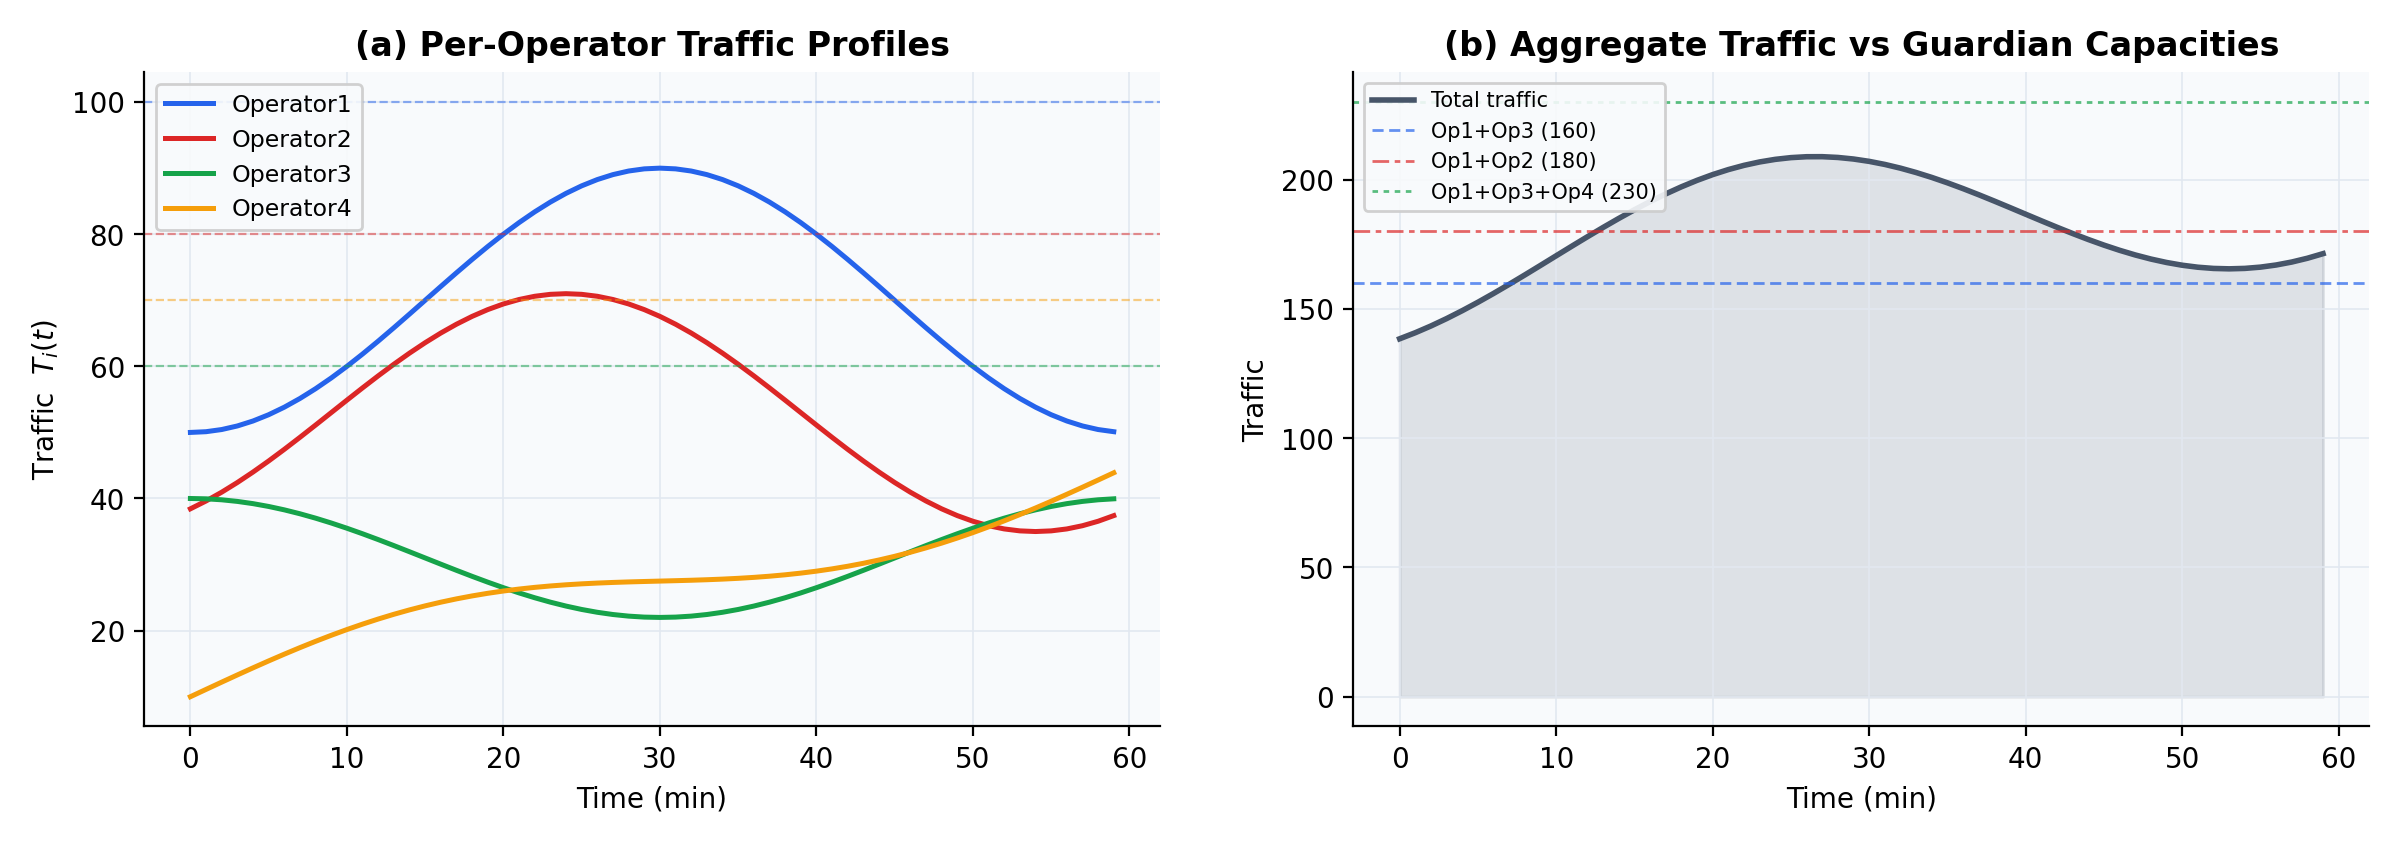
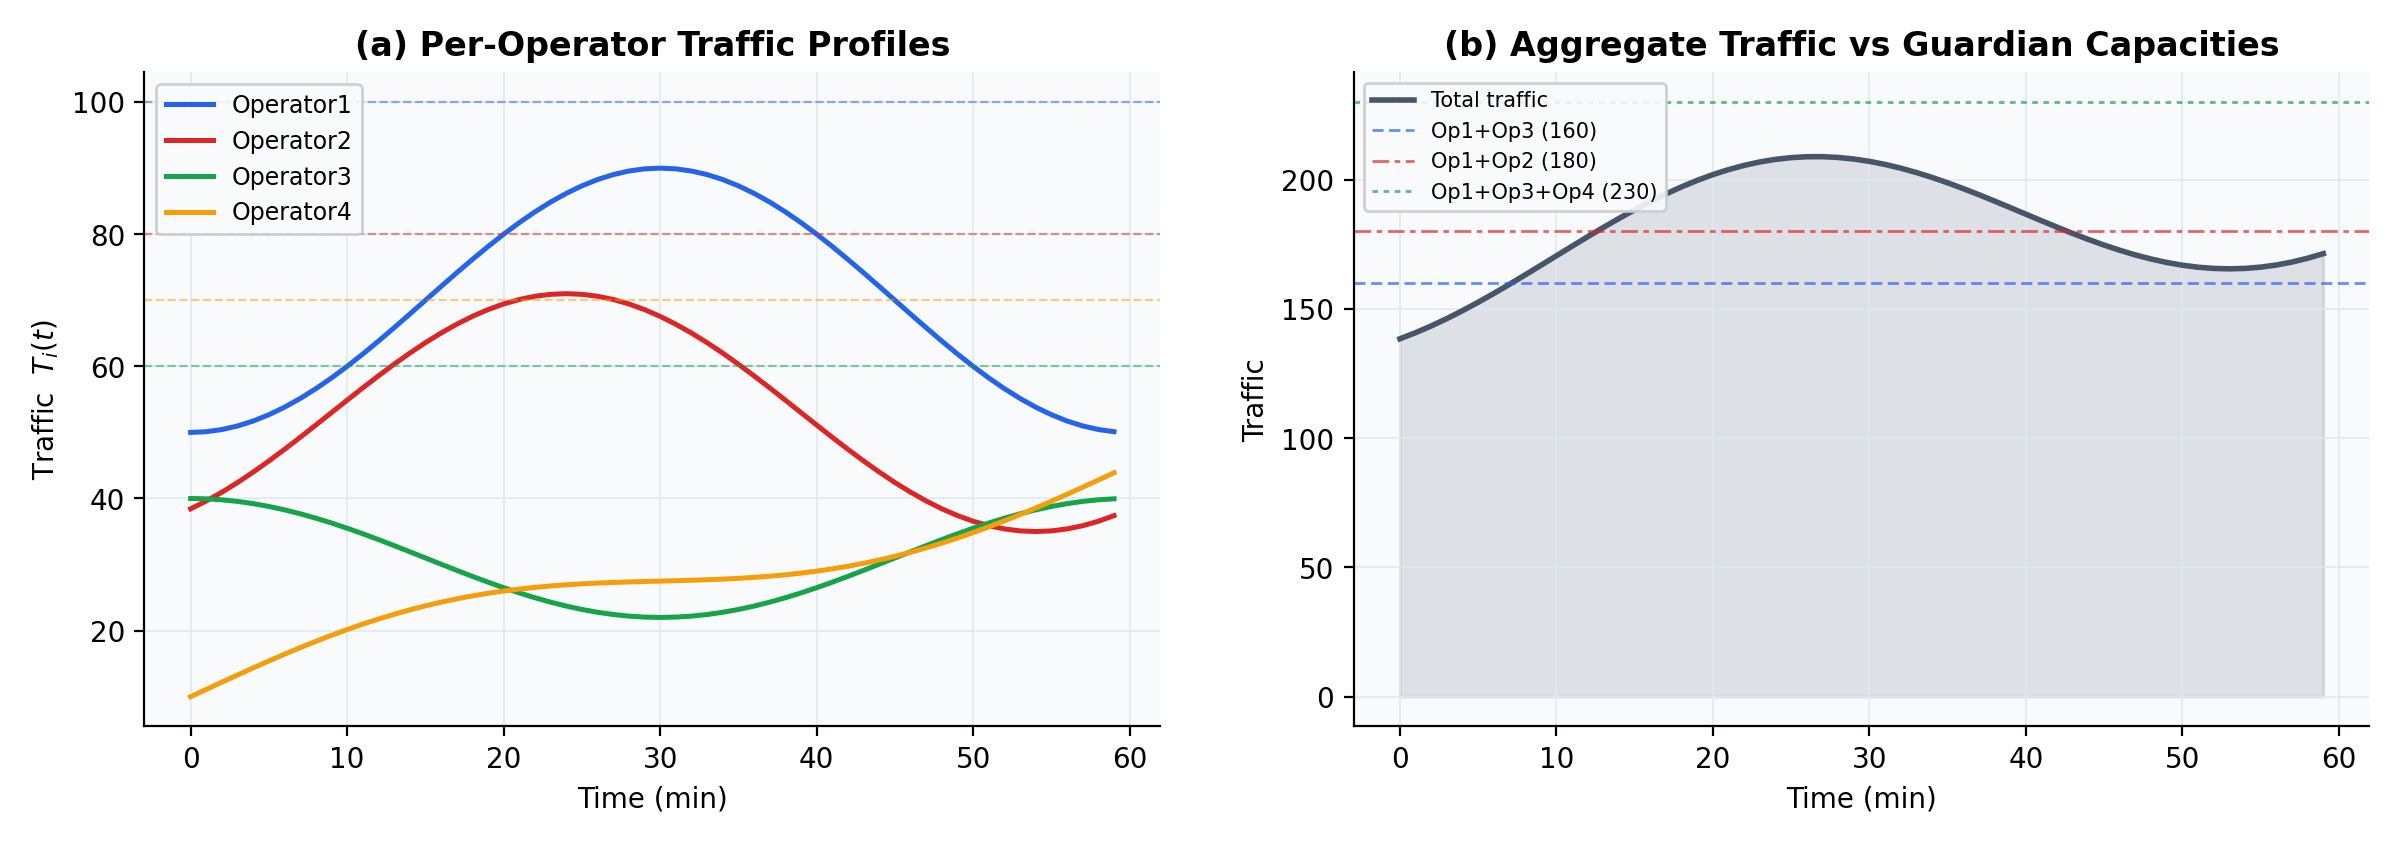
Ajout realistic

diff --git a/src/visualisation.py b/src/visualisation.py
@@ -25,7 +25,12 @@ import matplotlib.patches as mpatches
 from matplotlib.lines import Line2D
 from matplotlib.animation import FuncAnimation, PillowWriter
 
-from generate_data import OperatorParams, get_example_operators, get_example_traffic
+from generate_data import (
+    OperatorParams,
+    get_example_operators,
+    get_example_traffic,
+    get_realistic_example_traffic,
+)
 from utility import single_operator_utility
 from main import (
     simulate_one_hour_oracle,
@@ -94,6 +99,40 @@ def _run_simulations(safety_margin: float = 0.15):
             )
 
     return ops, traffic, coalition, oracle, online, comparison, standalone_ts
+
+
+# ── Realistic 24h traffic profiles ───────────────────────────────────────────
+
+def fig_realistic_traffic_profiles(
+    operators: list[int] | None = None,
+    out_dir: str | None = None,
+    show: bool = False,
+) -> None:
+    if out_dir is None:
+        out_dir = os.path.join(os.path.dirname(__file__), "..", "figures")
+
+    traffic = get_realistic_example_traffic()
+    ops = get_example_operators()
+    coalition = operators if operators is not None else list(range(len(ops)))
+    t_hours = np.arange(len(traffic[0])) * 24.0 / len(traffic[0])
+
+    fig, ax = plt.subplots(figsize=(12, 4.2))
+    for i in coalition:
+        ax.plot(t_hours, traffic[i], color=PALETTE[i], lw=1.8, label=ops[i].name)
+        ax.axhline(ops[i].capacity_epsilon, color=PALETTE[i], ls="--", lw=0.8, alpha=0.5)
+
+    ax.set_xlabel("Time (h)")
+    ax.set_ylabel("Traffic  $T_i(t)$")
+    ax.set_title("Per-Operator Traffic Profiles (24h)")
+    ax.set_xlim(0, 24)
+    ax.legend(loc="upper right")
+    fig.tight_layout()
+
+    os.makedirs(out_dir, exist_ok=True)
+    fig.savefig(os.path.join(out_dir, "fig_realistic_traffic_profiles.png"))
+    if show:
+        plt.show()
+    plt.close(fig)
 
 
 # ── Figure 1: Traffic Profiles ───────────────────────────────────────────────
@@ -625,39 +664,9 @@ def main():
         safety_margin=0.15
     )
 
-    print("Generating Figure 1: Traffic Profiles...")
-    fig_traffic_profiles(ops, traffic, coalition, out_dir)
-
-    print("Generating Figure 2: Guardian Timeline...")
-    fig_guardian_timeline(ops, coalition, oracle, online, out_dir)
-
-    print("Generating Figure 3: Coalition Value...")
-    fig_coalition_value(oracle, online, standalone_ts, coalition, out_dir)
-
-    print("Generating Figure 4: Payoff Rules Comparison...")
-    fig_payoff_rules(oracle, coalition, standalone_ts, out_dir)
-
-    print("Generating Figure 5: Prediction Quality...")
-    fig_prediction_quality(online, traffic, coalition, out_dir)
-
-    print("Generating Figure 6: Payoff Streams...")
-    fig_payoff_streams(oracle, online, standalone_ts, coalition, out_dir)
-
-    print("Generating Figure 7: Safety Margin Sensitivity...")
-    fig_safety_margin_sweep(ops, traffic, coalition, out_dir)
-
-    print("Generating Figure 8: Summary Dashboard...")
-    fig_summary_dashboard(ops, traffic, coalition, oracle, online,
-                          comparison, standalone_ts, out_dir)
-
-    if make_gif:
-        print("Generating Animated GIF (this may take a minute)...")
-        gif_path = animated_simulation(ops, traffic, coalition, oracle, online,
-                                       standalone_ts, out_dir)
-        print(f"  -> {gif_path}")
-
-    print(f"\nAll figures saved to: {os.path.abspath(out_dir)}/")
+    print("Generating Figure : Realistic Traffic Profiles...")
+    fig_realistic_traffic_profiles(ops, traffic, coalition, out_dir)
 
 
 if __name__ == "__main__":
-    main()
+    # main()

diff --git a/src/generate_data.py b/src/generate_data.py
@@ -34,6 +34,23 @@ def get_example_operators() -> list[OperatorParams]:
     ]
 
 
+### A more realistic simulation, with real data.
+
+def get_realistic_example_operators() -> list[OperatorParams]:
+    """
+    Returns a list of 4 example operators with predefined parameters.
+
+    Returns:
+        List of 4 OperatorParams representing different mobile operators.
+    """
+    return [
+        OperatorParams(name="Operator1", capacity_epsilon=100.0, c=1.0, beta=0.3, K=-10.0),
+        OperatorParams(name="Operator2", capacity_epsilon=80.0, c=1.0, beta=0.35, K=-12.0),
+        OperatorParams(name="Operator3", capacity_epsilon=60.0, c=1.1, beta=0.25, K=-9.0),
+        OperatorParams(name="Operator4", capacity_epsilon=70.0, c=0.95, beta=0.28, K=-11.0),
+    ]
+
+
 def get_example_traffic(num_steps: int = 60) -> dict[int, list[float]]:
     """
     Returns example traffic profiles for operators over a one-hour horizon.
@@ -79,6 +96,35 @@ def get_example_traffic(num_steps: int = 60) -> dict[int, list[float]]:
         # Operator 4: Steady growth throughout the hour
         # Range: ~10 to ~45
         traffic[3].append(10.0 + 35.0 * t_norm + 5.0 * math.sin(2 * math.pi * t_norm))
+
+    return traffic
+
+
+def get_realistic_example_traffic(
+    num_steps: int = 1440,
+    noise_std: float = 0.08,
+    seed: int | None = 42,
+) -> dict[int, list[float]]:
+    import math
+    import random
+
+    if seed is not None:
+        random.seed(seed)
+
+    ti_moy = [45.0, 35.0, 25.0, 27.0]
+    traffic: dict[int, list[float]] = {0: [], 1: [], 2: [], 3: []}
+
+    for t in range(num_steps):
+        t_hour = t * 24.0 / num_steps
+        psi = max(
+            0.1,
+            1
+            - 0.7 * math.cos(math.pi * (t_hour - 4) / 12)
+            + 0.4 * math.sin(math.pi * (t_hour - 12) / 6),
+        )
+        for i in range(4):
+            noise = 1.0 + random.gauss(0, noise_std)
+            traffic[i].append(max(0.0, ti_moy[i] * psi * noise))
 
     return traffic
 